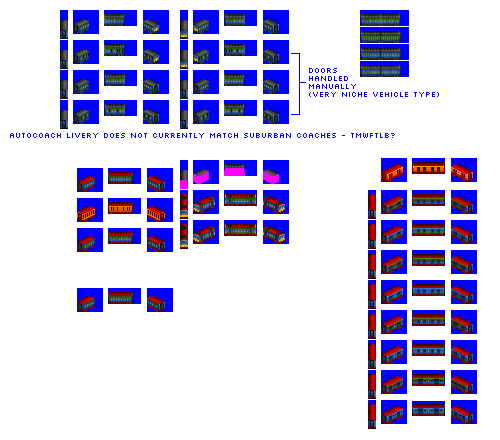
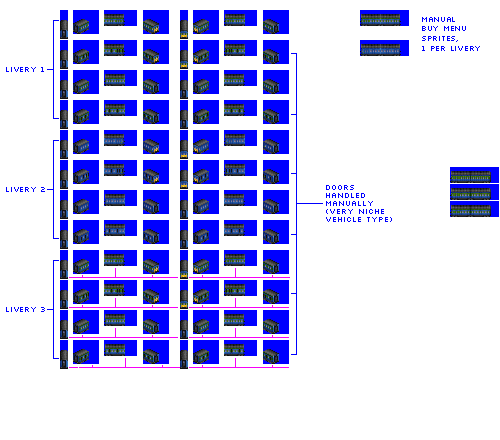
Change: add second livery for autocoach

diff --git a/src/vehicles/pony/auto_coach_pony_gen_2.py b/src/vehicles/pony/auto_coach_pony_gen_2.py
@@ -15,7 +15,7 @@ def main(**kwargs):
         name="Autocoach Set",
         replacement_model_id="clipper",  # auto-coach ends with gen 4 clipper
         gen=2,
-        liveries=["RIDEWELL"],
+        liveries=["RIDEWELL", "BANGER_BLUE"],
         sprites_complete=True,
     )
 
